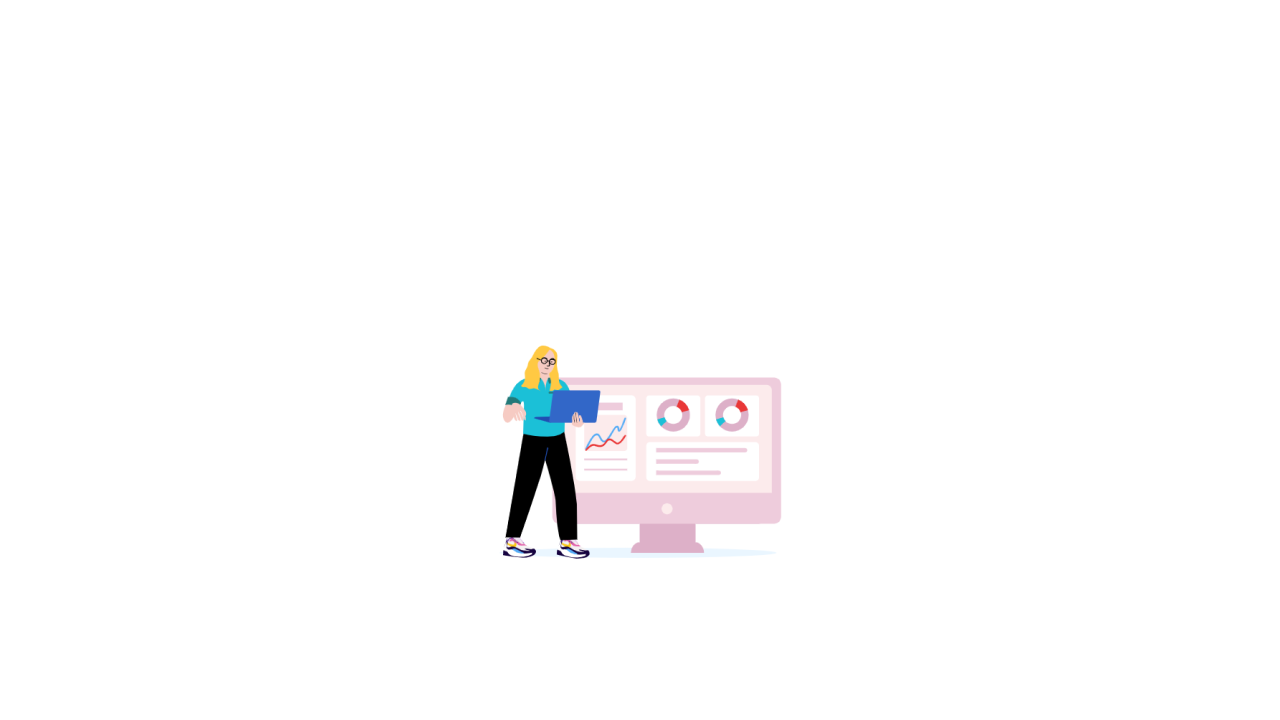
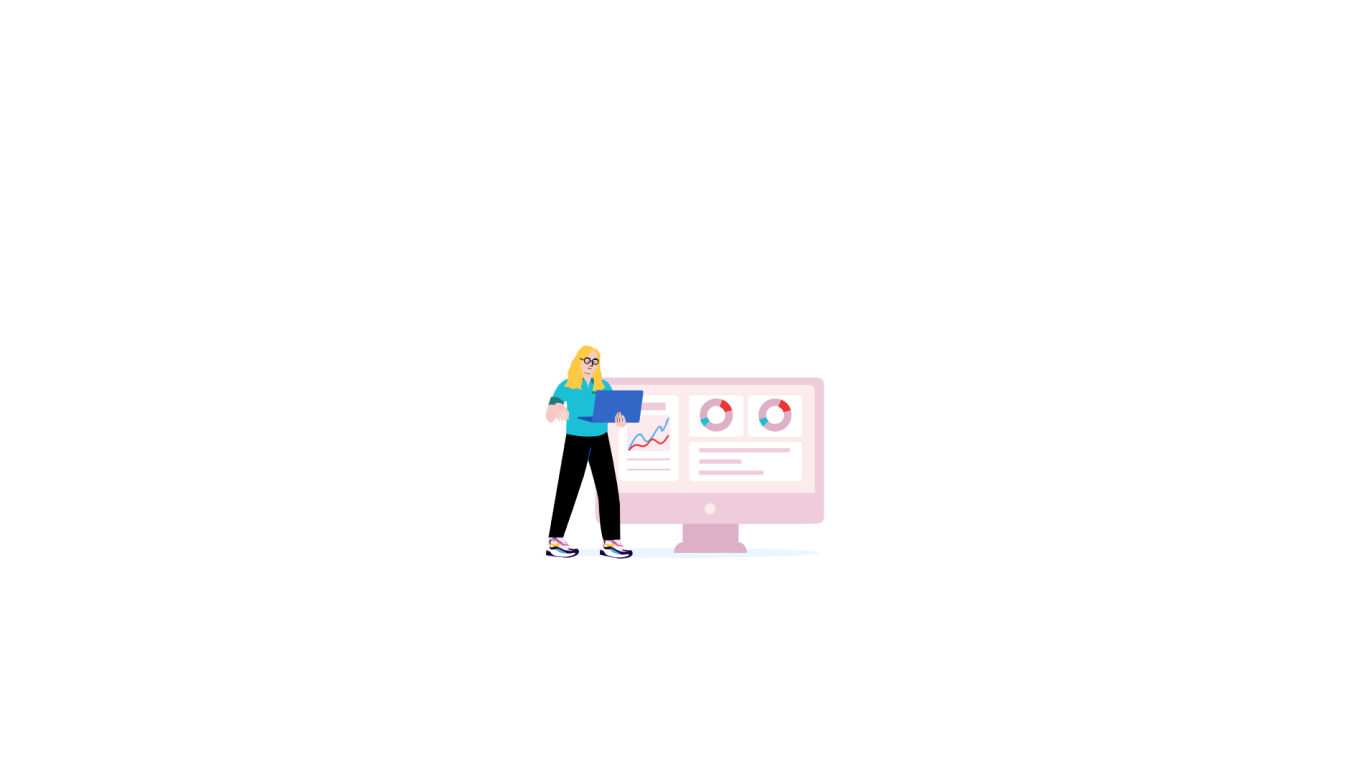
readjusted sizes

Changed region(s): [[0.375, 0.4278, 0.625, 0.7944]]

diff --git a/public/css/styles.css b/public/css/styles.css
@@ -68,9 +68,11 @@ display: block;
 {
     background-image: url('../images/manright.png');
     background-size: cover;
+
 }
 #maintenance
 {
     background-image: url('../images/maintenance.png');
-    background-size: cover;
+    background-size: auto;
+
 }
